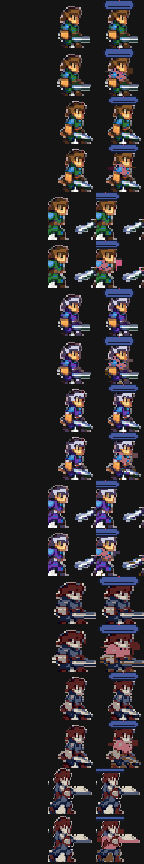
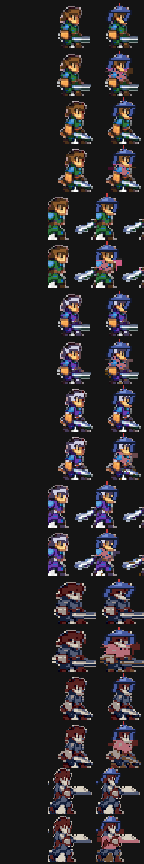
fix(piezas): casco v2 — cupla con silueta + baberas, visera y realce (receta aprobada)

Changed region(s): [[0.6667, 0.0, 0.9722, 0.4688], [0.6667, 0.5, 0.9722, 0.9062], [0.6667, 0.9375, 0.8611, 0.9688]]

diff --git a/scripts/gen_piezas.py b/scripts/gen_piezas.py
@@ -26,8 +26,8 @@ RAIZ = os.path.dirname(os.path.dirname(os.path.abspath(__file__)))
 PELO_EXTRA = 9
 PELO_VOLUMEN = 3
 PELO_FILAS = (0.26, 0.54)
-CASCO_ALTO = 8
 CASCO_COLOR = (70, 90, 160, 255)
+CASCO_LUZ = (120, 145, 210, 255)
 CASCO_BORDE = (20, 26, 48, 255)
 CASCO_CRESTA = (200, 60, 60, 255)
 PET0_PALETA = {'torso': '#b76e79'}   # acero rosado (nota: nombre histórico)
@@ -95,18 +95,82 @@ def capa_pelo_largo(crop, clase):
     return out
 
 
-def capa_casco(crop):
-    """Yelmo: domo + visera + cresta, dimensionado a la cabeza medida."""
+def perfil_cabeza(crop):
+    """(y -> (x0, x1)) de la masa opaca por fila — silueta que abraza el casco."""
     w, h = crop.size
-    cx, ymin, semi = cabeza_metricas(crop)
-    cw, chh = semi * 2 + 6, CASCO_ALTO
+    px = crop.load()
+    filas = {}
+    for y in range(h):
+        op = [x for x in range(w) if px[x, y][3] > 128]
+        if op:
+            filas[y] = (min(op), max(op))
+    return filas
+
+
+def capa_casco(crop):
+    """Yelmo v2 (aprobado 2026-10-12): cupla corta con arco escalonado sobre la
+    silueta medida, baberas hasta mandíbula con línea interior, visera oscura,
+    realce metálico y cresta de 2px. Sin flare: los flancos son la cabeza."""
+    w, h = crop.size
+    filas = perfil_cabeza(crop)
+    y_top = min(filas)
+    y_copa = y_top + 4
+    y_fin = y_top + 9
     img = Image.new('RGBA', (w, h), (0, 0, 0, 0))
     d = ImageDraw.Draw(img)
-    x0, x1 = cx - cw // 2, cx + cw // 2
-    y0, y1 = max(0, ymin - chh + 2), ymin + 2
-    d.rounded_rectangle([x0, y0, x1, y1], radius=3, fill=CASCO_COLOR, outline=CASCO_BORDE, width=1)
-    d.line([cx, max(0, y0 - 2), cx, y0], fill=CASCO_CRESTA, width=2)
-    d.line([x0 + 3, y1 - 2, x1 - 3, y1 - 2], fill=CASCO_BORDE, width=1)
+    arco = {0: 3, 1: 2, 2: 1}
+
+    def rango(y):
+        if y not in filas:
+            return None
+        x0, x1 = filas[y]
+        inset = min(arco.get(y - y_top, 0), max(0, (x1 - x0 + 1) // 4))
+        a0, a1 = x0 + inset, x1 - inset
+        return (a0, a1) if a1 >= a0 else None
+
+    # cupla: color + realce en las filas altas + borde lateral en flancos rectos
+    for y in range(y_top, y_copa + 1):
+        r = rango(y)
+        if not r:
+            continue
+        a0, a1 = r
+        d.line([(a0, y), (a1, y)], fill=CASCO_COLOR, width=1)
+        if y - y_top <= 2 and a1 - a0 >= 3:
+            d.line([(a0 + 1, y), (a0 + max(1, (a1 - a0) // 2), y)], fill=CASCO_LUZ, width=1)
+        if y > y_top + 2:
+            if a0 > 0:
+                d.point((a0 - 1, y), fill=CASCO_BORDE)
+            if a1 < w - 1:
+                d.point((a1 + 1, y), fill=CASCO_BORDE)
+    r0 = rango(y_top)
+    if r0 and y_top > 0:
+        d.line([(r0[0], y_top - 1), (r0[1], y_top - 1)], fill=CASCO_BORDE, width=1)
+    # visera: banda oscura al cierre de la cupla
+    rv = rango(y_copa)
+    if rv:
+        d.line([(rv[0], y_copa), (rv[1], y_copa)], fill=CASCO_BORDE, width=1)
+    # baberas: 2px por flank siguiendo el contorno, con borde interior y cierre
+    for y in range(y_copa + 1, y_fin + 1):
+        if y not in filas:
+            continue
+        x0, x1 = filas[y]
+        d.line([(x0, y), (x0 + 1, y)], fill=CASCO_COLOR, width=1)
+        if x0 + 2 <= x1 - 2:
+            d.point((x0 + 2, y), fill=CASCO_BORDE)
+        if x0 > 0:
+            d.point((x0 - 1, y), fill=CASCO_BORDE)
+        d.line([(x1 - 1, y), (x1, y)], fill=CASCO_COLOR, width=1)
+        if x1 - 2 >= x0 + 2:
+            d.point((x1 - 2, y), fill=CASCO_BORDE)
+        if x1 < w - 1:
+            d.point((x1 + 1, y), fill=CASCO_BORDE)
+        if y == y_fin:
+            d.line([(x0, y + 1), (x0 + 1, y + 1)], fill=CASCO_BORDE, width=1)
+            d.line([(x1 - 1, y + 1), (x1, y + 1)], fill=CASCO_BORDE, width=1)
+    # cresta de 2px centrada
+    if r0:
+        cx = (r0[0] + r0[1]) // 2
+        d.line([(cx, max(0, y_top - 2)), (cx, y_top - 1)], fill=CASCO_CRESTA, width=1)
     return img
 
 
